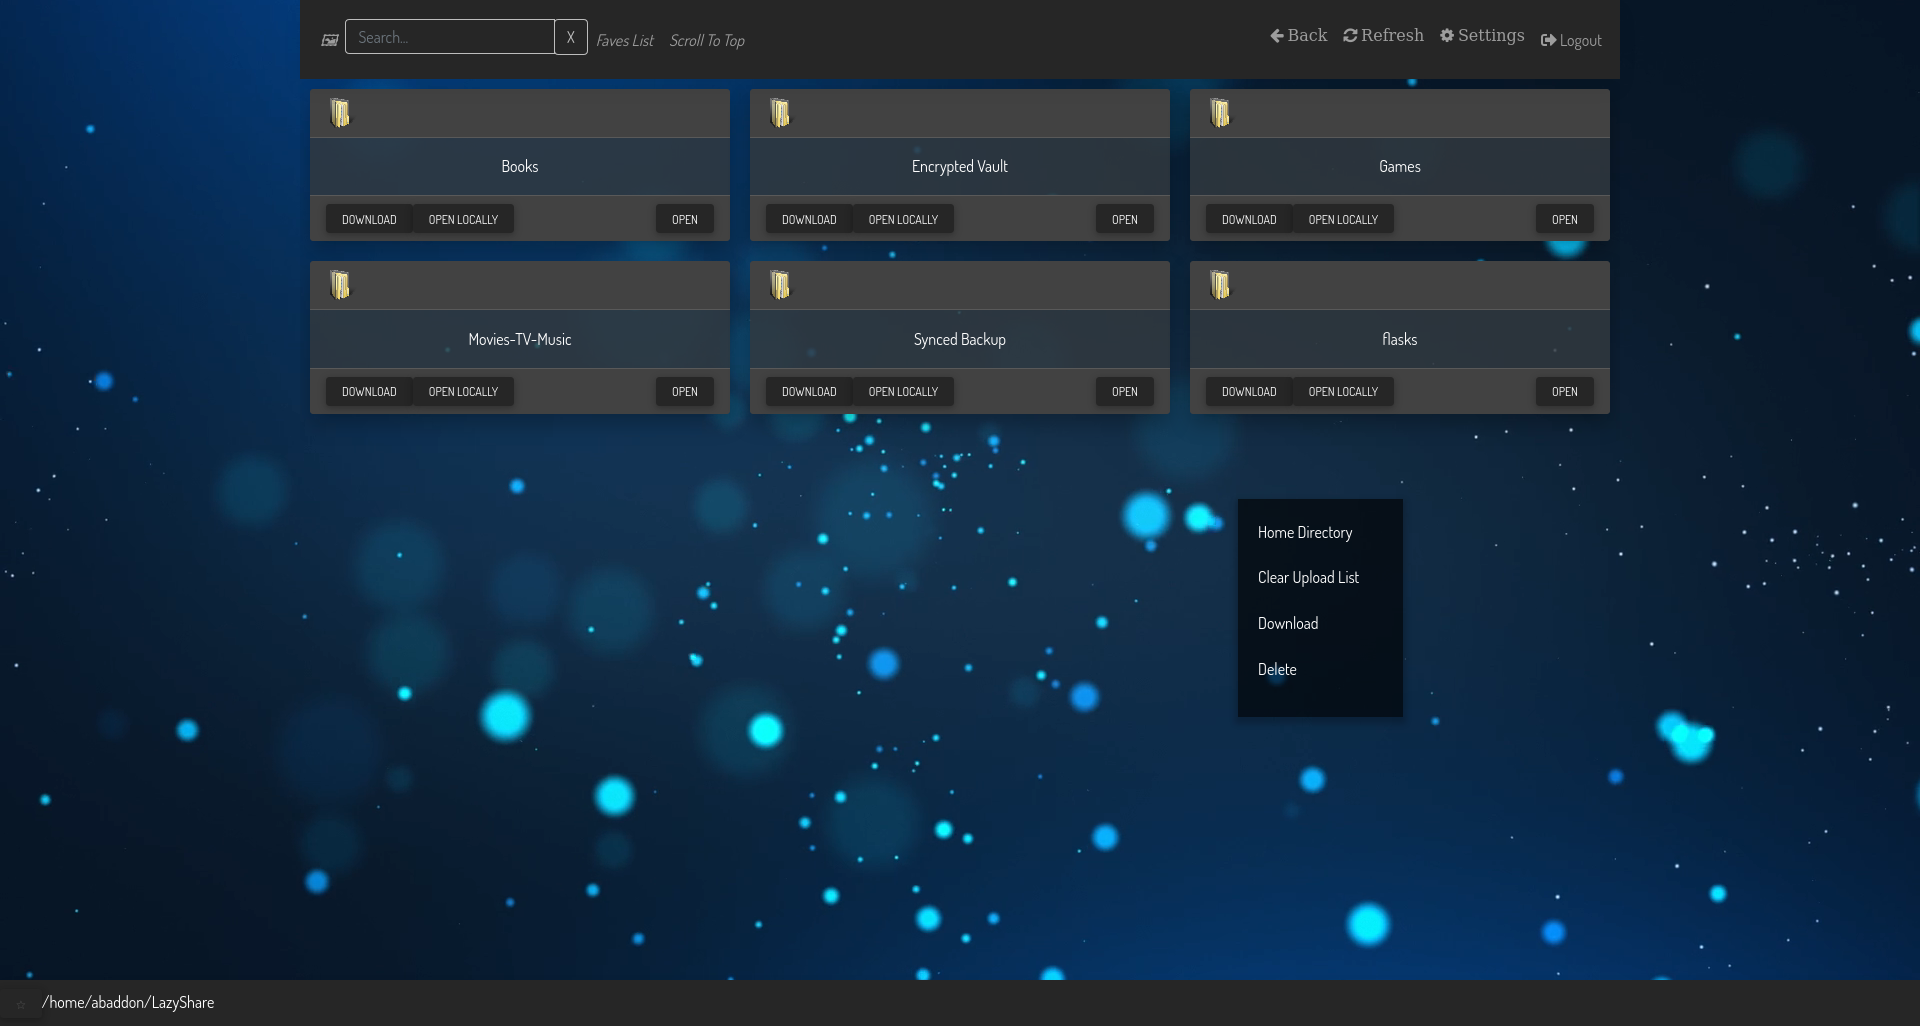
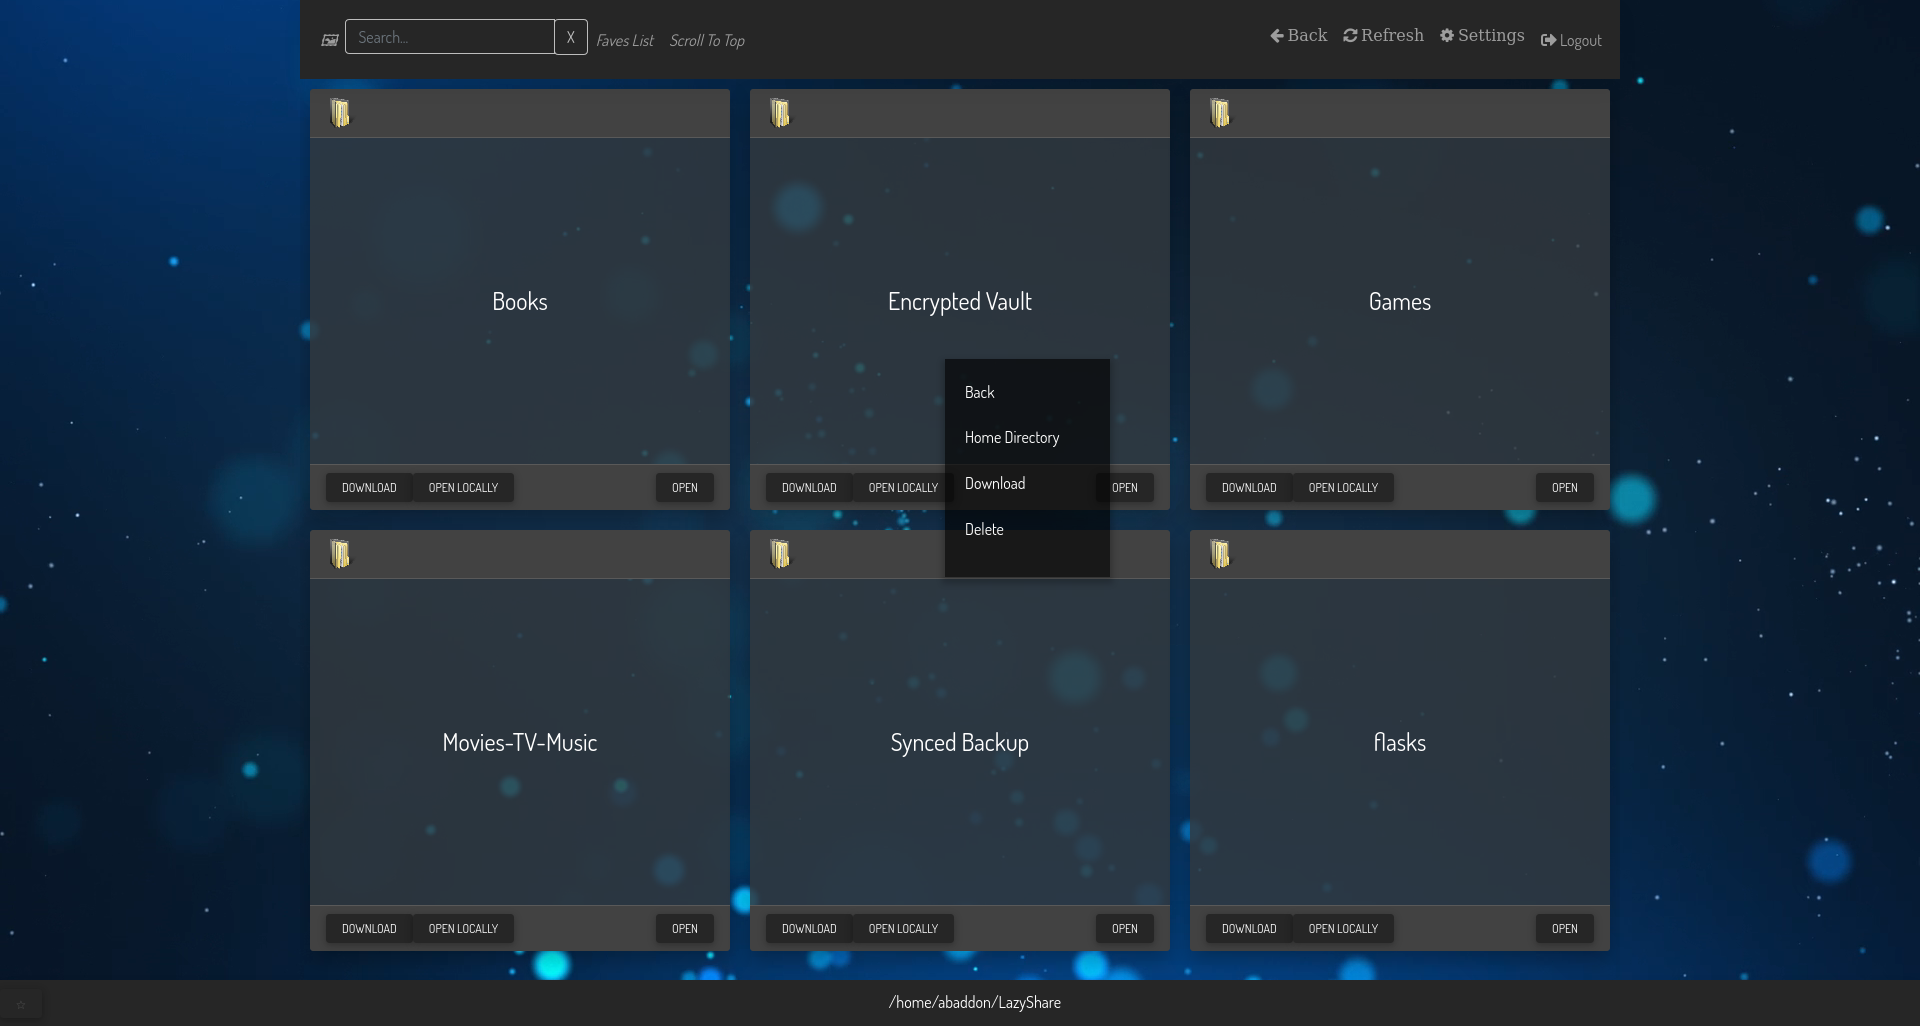
theme fixes; context menu changes

diff --git a/src/core/static/css/overrides.css b/src/core/static/css/overrides.css
@@ -13,12 +13,13 @@
 }
 
 body {
-  font-family: Dosis;
+    font-family: Dosis;
 }
 
 ul, li {
     list-style: none;
 }
+
 
 /* Vertical slider */
 input[type=range][orient=vertical] {
@@ -30,18 +31,18 @@ input[type=range][orient=vertical] {
 }
 
 [class*="col-"] {
-	background-clip: padding-box;
-	border: 10px solid transparent;
-	margin: 0em !important;
-	padding: 0em !important;
+	  background-clip: padding-box;
+	  border: 10px solid transparent;
+	  margin: 0em !important;
+	  padding: 0em !important;
 }
 
 #video-container::-webkit-media-controls {
-  display: none !important;
+    display: none !important;
 }
 
 #video-container::-webkit-media-controls-enclosure {
-  display: none !important;
+    display: none !important;
 }
 
 
@@ -55,6 +56,23 @@ input[type=range][orient=vertical] {
 .sticky-top,
 .card {
     background-color: rgba(50, 56, 62, 0.84);
+}
+
+.card-body {
+	min-height: 326px;
+	font-size: x-large;
+	vertical-align: middle !important;
+	align-items: center;
+	display: grid;
+}
+
+.card-img, .card-img-top {
+	  max-height: 285px !important;
+	  object-fit: contain;
+}
+
+.list-group-item {
+    color: rgba(255, 255, 255, 1) !important;
 }
 
 .label-as-badge {

diff --git a/src/core/templates/modals/options-modal.html b/src/core/templates/modals/options-modal.html
@@ -22,7 +22,8 @@
                             </ul>
                             <input id="toUpload" class="btn btn-dark" type="file" multiple>
                             <button id="uploadFiles" class="btn btn-success">Submit Files...</button>
-                        {% else %}
+                            <button id="clearUploadFiles" class="btn btn-dark">Clear</button>
+                            {% else %}
                             <h3>Upload not available to this user...</h3>
                         {% endif %}
                     </div>

diff --git a/src/core/templates/layout.html b/src/core/templates/layout.html
@@ -60,8 +60,8 @@
 
     <div class="menu">
         <ul class="menu-options">
+            <li class="menu-option" onclick="goUpADirectory()">Back</li>
             <li class="menu-option" onclick="goHome()">Home Directory</li>
-            <li class="menu-option" onclick="clearUlList()">Clear Upload List</li>
             <li class="menu-option" onclick="downloadItem()">Download</li>
             <li class="menu-option" onclick="deleteItem()">Delete</li>
         </ul>

diff --git a/src/core/templates/modals/file-modal.html b/src/core/templates/modals/file-modal.html
@@ -13,7 +13,7 @@
                     <div class="col scroller" style="max-height: 70vh; overflow: auto;">
                         <!-- For video -->
                         <div id="video-container">
-                            <video id="video" class="card-img-top viewer"
+                            <video id="video" class="viewer"
                                 loop
                                 src=""
                                 autoplay=""

diff --git a/src/core/templates/body-footer.html b/src/core/templates/body-footer.html
@@ -11,7 +11,7 @@
                 <li class="nav-item mr-2">
                     <span id="tggl-faves-btn" class="btn btn-info btn-sm" title="Add/Delete from favorites..." >&#9734;</span>
                 </li>
-                <li class="nav-item">
+                <li class="nav-item mx-auto">
                     <span id="path">{{current_directory}}</span>
                 </li>
             </ul>

diff --git a/src/core/static/js/ui-logic.js b/src/core/static/js/ui-logic.js
@@ -4,14 +4,6 @@ const goHome = () => {
     goHomeAjax();
 }
 
-const clearUlList = () => {
-    const titles = document.getElementById('uploadListTitles');
-    const files  = document.getElementById('toUpload');
-
-    files.value = null;
-    clearChildNodes(titles);
-}
-
 const downloadItem = (eve) => {
     let elm = active_card.querySelector('a');
     elm.click();

diff --git a/src/core/static/js/privileged-logic.js b/src/core/static/js/privileged-logic.js
@@ -1,5 +1,13 @@
 
 // Uploader Logic
+const clearUlList = () => {
+    const titles = document.getElementById('uploadListTitles');
+    const files  = document.getElementById('toUpload');
+
+    files.value = null;
+    clearChildNodes(titles);
+}
+
 const setUploadListTitles = (files = null) => {
     if (files == null) {
         return ;

diff --git a/src/core/static/js/events-privileged.js b/src/core/static/js/events-privileged.js
@@ -28,3 +28,7 @@ $( "#uploadFiles" ).bind( "click", function(eve) {
     const files = document.getElementById('toUpload').files;
     uploadFiles(files);
 });
+
+$( "#clearUploadFiles" ).bind( "click", function(eve) {
+    clearUlList();
+});

diff --git a/src/core/static/js/context-menu.js b/src/core/static/js/context-menu.js
@@ -14,6 +14,7 @@ const setPosition = ({ top, left }) => {
     toggleMenu("show");
 };
 
+
 window.addEventListener("click", e => {
     if(menuVisible) toggleMenu("hide");
 });

diff --git a/src/core/static/css/main.css b/src/core/static/css/main.css
@@ -56,6 +56,7 @@
 	text-overflow: ellipsis;
 }
 
+
 .volume-control-positioner {
     position: absolute;
     bottom: 3.5em;
